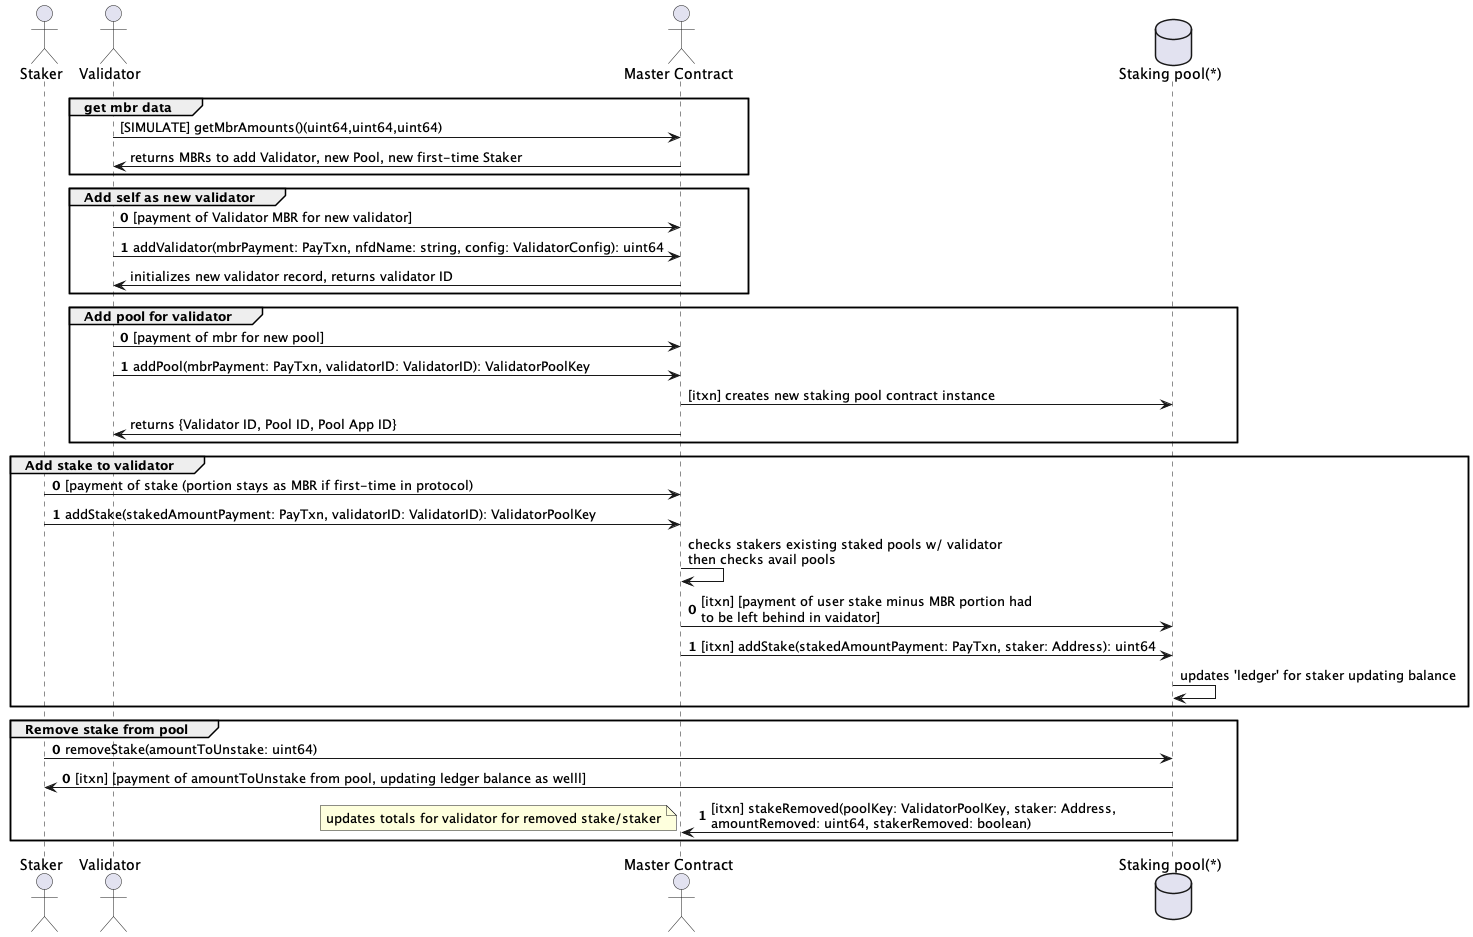
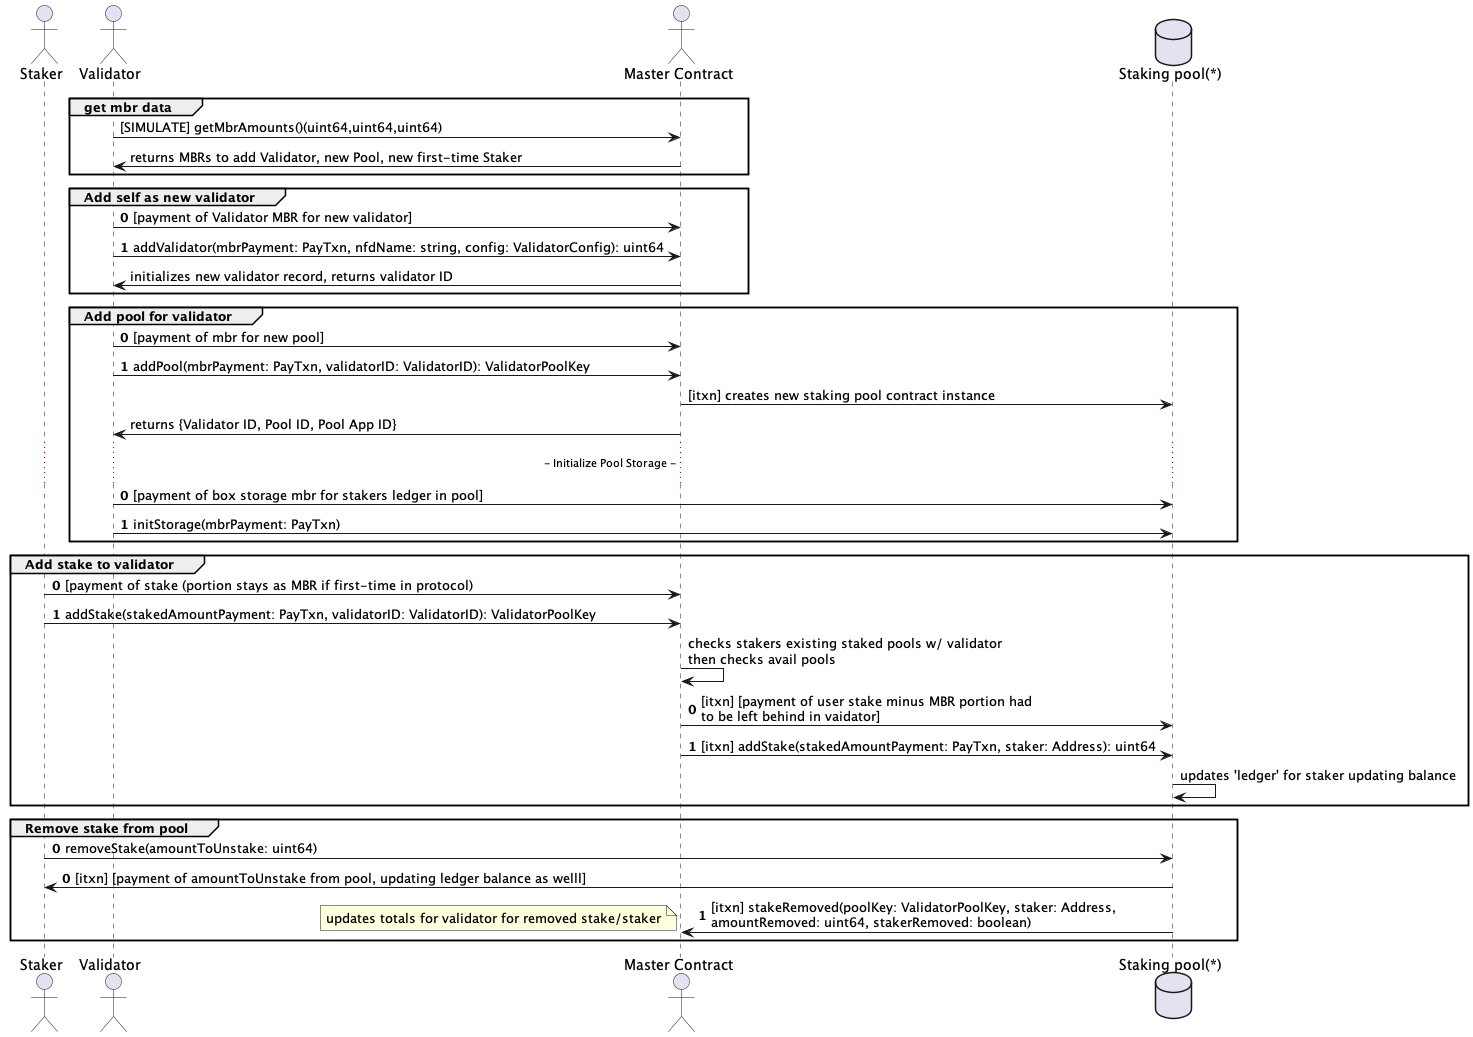
Update diagram to include initStorage step in adding of a staking pool

Changed region(s): [[0.0, 0.0619, 0.9993, 0.9594], [0.4684, 0.3714, 0.687, 0.4333], [0.7495, 0.0, 0.8432, 0.0928]]

diff --git a/nodemgr/internal/lib/reti/stakingpool.go b/nodemgr/internal/lib/reti/stakingpool.go
@@ -66,7 +66,7 @@ func (r *Reti) EpochBalanceUpdate(info *ValidatorInfo, poolID int, poolAppID uin
 	}
 	rewardAvail := r.PoolAvailableRewards(poolAppID, pools[poolID-1].TotalAlgoStaked)
 	if rewardAvail < 1e6 {
-		return fmt.Errorf("Reward available is only %s ALGOS but must be at least 1 ALGO", algo.FormattedAlgoAmount(rewardAvail))
+		return fmt.Errorf("reward available is only %s ALGOS but must be at least 1 ALGO", algo.FormattedAlgoAmount(rewardAvail))
 	}
 
 	params, err := r.algoClient.SuggestedParams().Do(context.Background())
